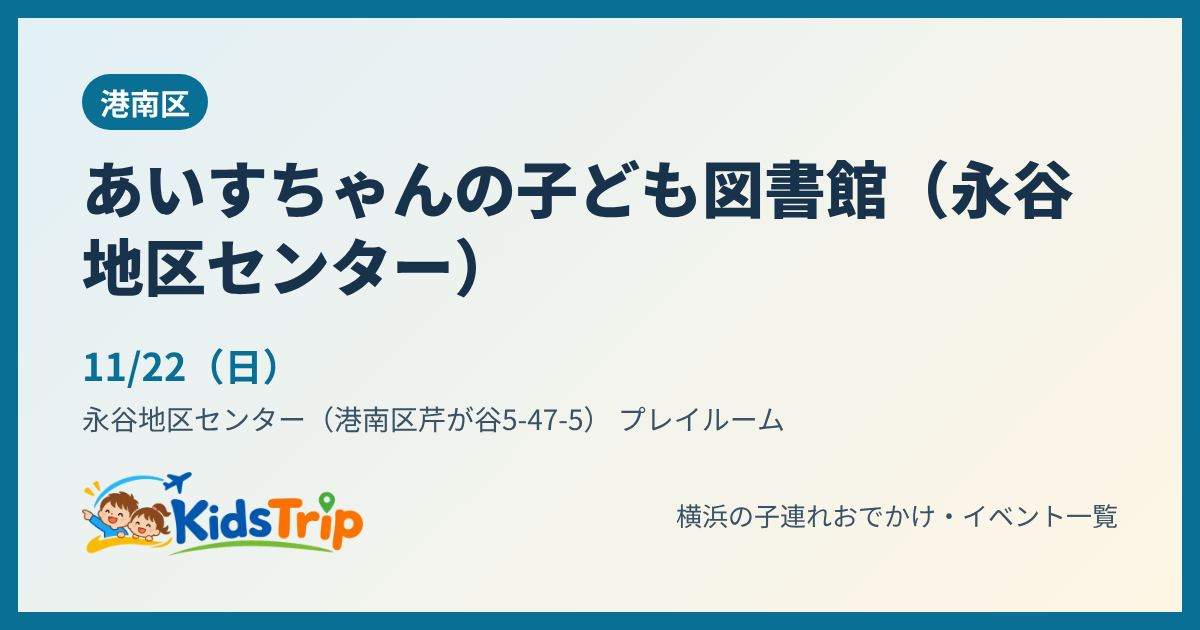
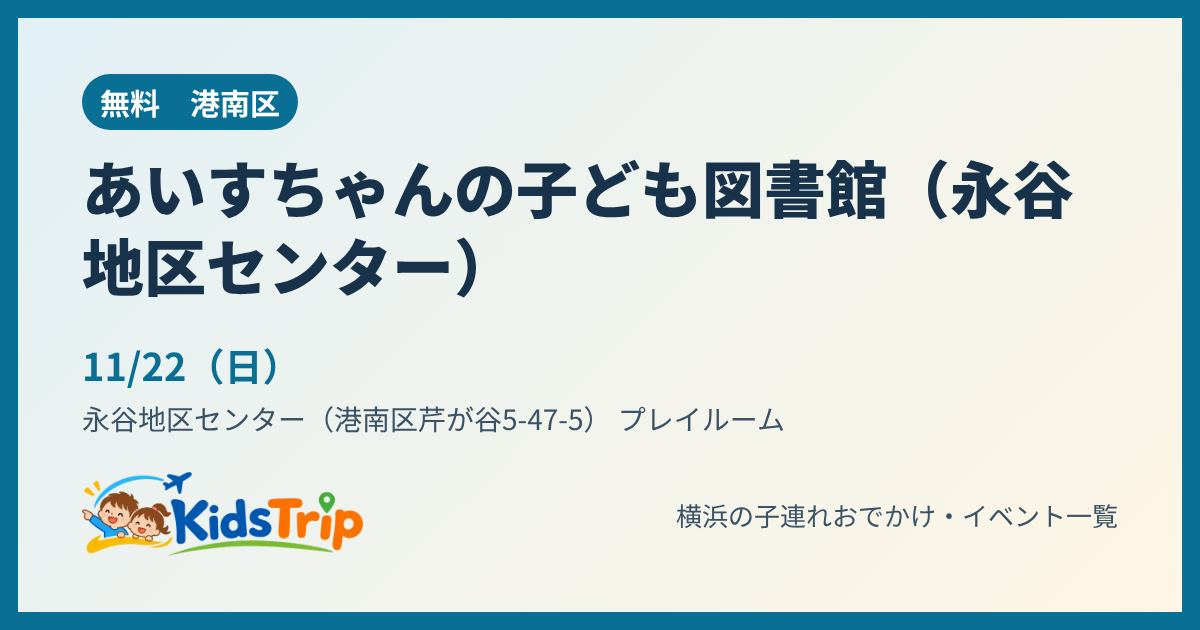
ブランチ南部市場のクリスマス会・はらっぱ祭り・ANAの飛行機・ワールドポーターズのリース作り・あいすちゃんの子ども図書館・港南台北ログハウスを、利用者が送った公式の画面で確かめて更新
Claude-Session: https://claude.ai/code/session_014AtJ2h26UP5ukGbsStrCij

Changed region(s): [[0.0617, 0.0905, 0.2467, 0.2111]]

diff --git a/event/1s72oeq/index.html b/event/1s72oeq/index.html
@@ -4,12 +4,12 @@
 <meta charset="utf-8">
 <meta name="viewport" content="width=device-width, initial-scale=1">
 <title>親子でちょっと早いクリスマス（ブランチ横浜南部市場）（金沢区）｜横浜の子連れイベント｜KidsTrip</title>
-<meta name="description" content="11月19日(木)　ブランチ横浜南部市場（シーサイドライン 南部市場駅すぐ）。キラキラバスボム作りやフォトブースなどを楽しめる親子向けのクリスマスイベント。事前予約した人には、おかしのつかみどりか野菜の詰め合わせのプレゼントあり。平日（木曜">
+<meta name="description" content="11月19日(木)　ブランチ横浜南部市場 NANBU BASE（シーサイドライン 南部市場駅すぐ）。キラキラバスボム作りやフォトブースなどを楽しめる親子向けのクリスマスイベント。事前予約した人には、おかしのつかみどりか野菜の詰め合わせのプレ">
 <link rel="canonical" href="https://kidstrip.jp/event/1s72oeq/">
 <meta property="og:type" content="article">
 <meta property="og:site_name" content="KidsTrip">
 <meta property="og:title" content="親子でちょっと早いクリスマス（ブランチ横浜南部市場）（金沢区）｜横浜の子連れイベント｜KidsTrip">
-<meta property="og:description" content="11月19日(木)　ブランチ横浜南部市場（シーサイドライン 南部市場駅すぐ）。キラキラバスボム作りやフォトブースなどを楽しめる親子向けのクリスマスイベント。事前予約した人には、おかしのつかみどりか野菜の詰め合わせのプレゼントあり。平日（木曜">
+<meta property="og:description" content="11月19日(木)　ブランチ横浜南部市場 NANBU BASE（シーサイドライン 南部市場駅すぐ）。キラキラバスボム作りやフォトブースなどを楽しめる親子向けのクリスマスイベント。事前予約した人には、おかしのつかみどりか野菜の詰め合わせのプレ">
 <meta property="og:url" content="https://kidstrip.jp/event/1s72oeq/">
 <meta property="og:image" content="https://kidstrip.jp/og/1s72oeq.jpg">
 <meta property="og:image:width" content="1200">
@@ -19,7 +19,7 @@
 <link rel="icon" href="../../img/favicon.png">
 <link rel="apple-touch-icon" href="../../img/apple-touch-icon.png">
 <script type="application/ld+json">{"@context": "https://schema.org", "@type": "BreadcrumbList", "itemListElement": [{"@type": "ListItem", "position": 1, "name": "トップ", "item": "https://kidstrip.jp/"}, {"@type": "ListItem", "position": 2, "name": "イベント", "item": "https://kidstrip.jp/"}, {"@type": "ListItem", "position": 3, "name": "親子でちょっと早いクリスマス（ブランチ横浜南部市場）"}]}</script>
-<script type="application/ld+json">{"@context": "https://schema.org", "@type": "Event", "name": "親子でちょっと早いクリスマス（ブランチ横浜南部市場）", "startDate": "2026-11-19T10:30:00+09:00", "endDate": "2026-11-19", "eventStatus": "https://schema.org/EventScheduled", "eventAttendanceMode": "https://schema.org/OfflineEventAttendanceMode", "location": {"@type": "Place", "name": "ブランチ横浜南部市場（シーサイドライン 南部市場駅すぐ）", "address": {"@type": "PostalAddress", "addressLocality": "横浜市金沢区", "addressRegion": "神奈川県", "addressCountry": "JP"}}, "description": "キラキラバスボム作りやフォトブースなどを楽しめる親子向けのクリスマスイベント。事前予約した人には、おかしのつかみどりか野菜の詰め合わせのプレゼントあり。平日（木曜）の開催。", "image": ["https://kidstrip.jp/og/1s72oeq.jpg"], "url": "https://kidstrip.jp/event/1s72oeq/", "isAccessibleForFree": true, "inLanguage": "ja"}</script>
+<script type="application/ld+json">{"@context": "https://schema.org", "@type": "Event", "name": "親子でちょっと早いクリスマス（ブランチ横浜南部市場）", "startDate": "2026-11-19T10:30:00+09:00", "endDate": "2026-11-19", "eventStatus": "https://schema.org/EventScheduled", "eventAttendanceMode": "https://schema.org/OfflineEventAttendanceMode", "location": {"@type": "Place", "name": "ブランチ横浜南部市場 NANBU BASE（シーサイドライン 南部市場駅すぐ）", "address": {"@type": "PostalAddress", "addressLocality": "横浜市金沢区", "addressRegion": "神奈川県", "addressCountry": "JP"}}, "description": "キラキラバスボム作りやフォトブースなどを楽しめる親子向けのクリスマスイベント。事前予約した人には、おかしのつかみどりか野菜の詰め合わせのプレゼントあり。平日（木曜）の開催。", "image": ["https://kidstrip.jp/og/1s72oeq.jpg"], "url": "https://kidstrip.jp/event/1s72oeq/", "isAccessibleForFree": true, "inLanguage": "ja"}</script>
 <style>
 :root{--paper:#f8fafc;--card:#fff;--ink:#18222e;--muted:#5b6875;--line:#dde3e9;--accent:#0a6f95;--accent-soft:#e2f0f6;--ok:#2e7d4f;--bad:#b3372b}
 *{box-sizing:border-box}body{margin:0;background:var(--paper);color:var(--ink);font-family:"Zen Kaku Gothic New","Hiragino Kaku Gothic ProN","Yu Gothic","Meiryo",sans-serif;line-height:1.7}
@@ -50,19 +50,19 @@ footer{margin:28px 0 8px;font-size:12px;color:var(--muted)}
 <table class="info">
 <tr><th>日にち</th><td>11月19日(木)</td></tr>
 <tr><th>時間</th><td>10:30〜12:30</td></tr>
-<tr><th>場所</th><td>金沢区・ブランチ横浜南部市場（シーサイドライン 南部市場駅すぐ）</td></tr>
-<tr><th>料金</th><td>アプリ「マイコミュ」で事前予約すると無料（予約なしは1,000円）</td></tr>
+<tr><th>場所</th><td>金沢区・ブランチ横浜南部市場 NANBU BASE（シーサイドライン 南部市場駅すぐ）</td></tr>
+<tr><th>料金</th><td>アプリ「マイコミュ」で事前予約すると無料（ふだんの参加費は1,000円）</td></tr>
 <tr><th>対象</th><td>親子向け</td></tr>
 <tr><th>予約</th><td>アプリで事前予約・先着100組</td></tr>
 <tr><th>雨の日</th><td>雨でもOK（屋内（NANBU BASE））</td></tr>
 </table>
 <p class="sum">キラキラバスボム作りやフォトブースなどを楽しめる親子向けのクリスマスイベント。事前予約した人には、おかしのつかみどりか野菜の詰め合わせのプレゼントあり。平日（木曜）の開催。</p>
-<p class="tip">💡 先着100組なので早めに予約を。駐車場は混みやすいのでシーサイドラインが便利</p>
-<p class="small">情報の時点：2026年11月11日　出典：ブランチ横浜南部市場 公式</p>
+<p class="tip">💡 先着100組なので早めに予約を。主催は横浜市シェアタウン（AsMama）とブランチ横浜南部市場。12/17(木)には同じ場所で「ファミリーランチ会」もある（くわしくは公式で）。駐車場は混みやすいのでシーサイドラインが便利</p>
+<p class="small">情報の時点：2026年11月18日　出典：ブランチ横浜南部市場 公式のチラシ（利用者が送った画面・2026年11月）</p>
 <div class="btns"><a class="btn main" data-act="official" href="https://www.branch-sc.com/yokohama_nanbu/shop/pop-eventnews.jsp?id=8200" target="_blank" rel="noopener">公式ページで確認</a>
 <a class="btn" href="/?e=1s72oeq">一覧で見る（行き方・近くのごはん）</a>
 <button type="button" class="btn" data-share="1">🔗 リンクを送る・コピー</button>
-<a class="btn line" href="https://line.me/R/share?text=%E3%80%90%E8%A6%AA%E5%AD%90%E3%81%A7%E3%81%A1%E3%82%87%E3%81%A3%E3%81%A8%E6%97%A9%E3%81%84%E3%82%AF%E3%83%AA%E3%82%B9%E3%83%9E%E3%82%B9%EF%BC%88%E3%83%96%E3%83%A9%E3%83%B3%E3%83%81%E6%A8%AA%E6%B5%9C%E5%8D%97%E9%83%A8%E5%B8%82%E5%A0%B4%EF%BC%89%E3%80%91%0A11%E6%9C%8819%E6%97%A5%28%E6%9C%A8%29%E3%80%8010%3A30%E3%80%9C12%3A30%0A%E5%A0%B4%E6%89%80%EF%BC%9A%E9%87%91%E6%B2%A2%E5%8C%BA%E3%83%BB%E3%83%96%E3%83%A9%E3%83%B3%E3%83%81%E6%A8%AA%E6%B5%9C%E5%8D%97%E9%83%A8%E5%B8%82%E5%A0%B4%EF%BC%88%E3%82%B7%E3%83%BC%E3%82%B5%E3%82%A4%E3%83%89%E3%83%A9%E3%82%A4%E3%83%B3%20%E5%8D%97%E9%83%A8%E5%B8%82%E5%A0%B4%E9%A7%85%E3%81%99%E3%81%90%EF%BC%89%0Ahttps%3A//kidstrip.jp/event/1s72oeq/" target="_blank" rel="noopener">LINEで送る</a></div>
+<a class="btn line" href="https://line.me/R/share?text=%E3%80%90%E8%A6%AA%E5%AD%90%E3%81%A7%E3%81%A1%E3%82%87%E3%81%A3%E3%81%A8%E6%97%A9%E3%81%84%E3%82%AF%E3%83%AA%E3%82%B9%E3%83%9E%E3%82%B9%EF%BC%88%E3%83%96%E3%83%A9%E3%83%B3%E3%83%81%E6%A8%AA%E6%B5%9C%E5%8D%97%E9%83%A8%E5%B8%82%E5%A0%B4%EF%BC%89%E3%80%91%0A11%E6%9C%8819%E6%97%A5%28%E6%9C%A8%29%E3%80%8010%3A30%E3%80%9C12%3A30%0A%E5%A0%B4%E6%89%80%EF%BC%9A%E9%87%91%E6%B2%A2%E5%8C%BA%E3%83%BB%E3%83%96%E3%83%A9%E3%83%B3%E3%83%81%E6%A8%AA%E6%B5%9C%E5%8D%97%E9%83%A8%E5%B8%82%E5%A0%B4%20NANBU%20BASE%EF%BC%88%E3%82%B7%E3%83%BC%E3%82%B5%E3%82%A4%E3%83%89%E3%83%A9%E3%82%A4%E3%83%B3%20%E5%8D%97%E9%83%A8%E5%B8%82%E5%A0%B4%E9%A7%85%E3%81%99%E3%81%90%EF%BC%89%0Ahttps%3A//kidstrip.jp/event/1s72oeq/" target="_blank" rel="noopener">LINEで送る</a></div>
 </article>
 <h2>歩いて10分以内のおむつ替え・授乳室・お湯</h2><table class="bm"><thead><tr><th>場所</th><th>おむつ替え</th><th>授乳室</th><th>お湯</th><th>レンジ</th></tr></thead><tbody><tr><th scope="row"><a href="/spot/1nerc27/">ブランチ横浜南部市場</a></th><td class="y">○</td><td class="y">○</td><td class="y">○</td><td class="u">？</td></tr></tbody></table><p class="legend">○ あり　× なし　？ 調べた範囲で確認できず</p>
 

diff --git a/event/1agi05y/index.html b/event/1agi05y/index.html
@@ -4,12 +4,12 @@
 <meta charset="utf-8">
 <meta name="viewport" content="width=device-width, initial-scale=1">
 <title>あいすちゃんの子ども図書館（永谷地区センター）（港南区）｜横浜の子連れイベント｜KidsTrip</title>
-<meta name="description" content="11月22日(日)　永谷地区センター（港南区芹が谷5-47-5） プレイルーム。プレイルームで開かれる子ども向けの催し。内容・対象・料金は公式のイベントページで確認を。">
+<meta name="description" content="11月22日(日)　永谷地区センター（港南区芹が谷5-47-5） プレイルーム。プレイルームで季節の絵本50冊以上を自由に読める会。途中で読み聞かせと、絵本の選び方・読み聞かせ方の講座もある。毎月第4日曜。">
 <link rel="canonical" href="https://kidstrip.jp/event/1agi05y/">
 <meta property="og:type" content="article">
 <meta property="og:site_name" content="KidsTrip">
 <meta property="og:title" content="あいすちゃんの子ども図書館（永谷地区センター）（港南区）｜横浜の子連れイベント｜KidsTrip">
-<meta property="og:description" content="11月22日(日)　永谷地区センター（港南区芹が谷5-47-5） プレイルーム。プレイルームで開かれる子ども向けの催し。内容・対象・料金は公式のイベントページで確認を。">
+<meta property="og:description" content="11月22日(日)　永谷地区センター（港南区芹が谷5-47-5） プレイルーム。プレイルームで季節の絵本50冊以上を自由に読める会。途中で読み聞かせと、絵本の選び方・読み聞かせ方の講座もある。毎月第4日曜。">
 <meta property="og:url" content="https://kidstrip.jp/event/1agi05y/">
 <meta property="og:image" content="https://kidstrip.jp/og/1agi05y.jpg">
 <meta property="og:image:width" content="1200">
@@ -19,7 +19,7 @@
 <link rel="icon" href="../../img/favicon.png">
 <link rel="apple-touch-icon" href="../../img/apple-touch-icon.png">
 <script type="application/ld+json">{"@context": "https://schema.org", "@type": "BreadcrumbList", "itemListElement": [{"@type": "ListItem", "position": 1, "name": "トップ", "item": "https://kidstrip.jp/"}, {"@type": "ListItem", "position": 2, "name": "イベント", "item": "https://kidstrip.jp/"}, {"@type": "ListItem", "position": 3, "name": "あいすちゃんの子ども図書館（永谷地区センター）"}]}</script>
-<script type="application/ld+json">{"@context": "https://schema.org", "@type": "Event", "name": "あいすちゃんの子ども図書館（永谷地区センター）", "startDate": "2026-11-22T10:00:00+09:00", "endDate": "2026-11-22", "eventStatus": "https://schema.org/EventScheduled", "eventAttendanceMode": "https://schema.org/OfflineEventAttendanceMode", "location": {"@type": "Place", "name": "永谷地区センター（港南区芹が谷5-47-5） プレイルーム", "address": {"@type": "PostalAddress", "addressLocality": "横浜市港南区", "addressRegion": "神奈川県", "addressCountry": "JP"}}, "description": "プレイルームで開かれる子ども向けの催し。内容・対象・料金は公式のイベントページで確認を。", "image": ["https://kidstrip.jp/og/1agi05y.jpg"], "url": "https://kidstrip.jp/event/1agi05y/", "isAccessibleForFree": false, "inLanguage": "ja"}</script>
+<script type="application/ld+json">{"@context": "https://schema.org", "@type": "Event", "name": "あいすちゃんの子ども図書館（永谷地区センター）", "startDate": "2026-11-22T11:00:00+09:00", "endDate": "2026-11-22", "eventStatus": "https://schema.org/EventScheduled", "eventAttendanceMode": "https://schema.org/OfflineEventAttendanceMode", "location": {"@type": "Place", "name": "永谷地区センター（港南区芹が谷5-47-5） プレイルーム", "address": {"@type": "PostalAddress", "addressLocality": "横浜市港南区", "addressRegion": "神奈川県", "addressCountry": "JP"}}, "description": "プレイルームで季節の絵本50冊以上を自由に読める会。途中で読み聞かせと、絵本の選び方・読み聞かせ方の講座もある。毎月第4日曜。", "image": ["https://kidstrip.jp/og/1agi05y.jpg"], "url": "https://kidstrip.jp/event/1agi05y/", "isAccessibleForFree": true, "inLanguage": "ja"}</script>
 <style>
 :root{--paper:#f8fafc;--card:#fff;--ink:#18222e;--muted:#5b6875;--line:#dde3e9;--accent:#0a6f95;--accent-soft:#e2f0f6;--ok:#2e7d4f;--bad:#b3372b}
 *{box-sizing:border-box}body{margin:0;background:var(--paper);color:var(--ink);font-family:"Zen Kaku Gothic New","Hiragino Kaku Gothic ProN","Yu Gothic","Meiryo",sans-serif;line-height:1.7}
@@ -46,23 +46,23 @@ footer{margin:28px 0 8px;font-size:12px;color:var(--muted)}
 <p class="crumb"><a href="/">トップ</a> ＞ <a href="/">イベント</a> ＞ あいすちゃんの子ども図書館（永谷地区センター）</p>
 <article class="card">
 <h1>あいすちゃんの子ども図書館（永谷地区センター）</h1>
-<ul class="chips"><li>料金要確認</li><li>公式ページを開けず未確認（プレイルームでの子ども向けの催し）</li><li>屋内</li><li>雨でもOK</li></ul>
+<ul class="chips"><li>無料</li><li>未就学児と保護者</li><li>屋内</li><li>雨でもOK</li></ul>
 <table class="info">
 <tr><th>日にち</th><td>11月22日(日)</td></tr>
-<tr><th>時間</th><td>プレイルームで10:00〜12:30のあいだ（くわしい時間は公式ページで確認）</td></tr>
+<tr><th>時間</th><td>11:00〜12:30（出入り自由）。11:30〜12:00は読み聞かせと絵本講座</td></tr>
 <tr><th>場所</th><td>港南区・永谷地区センター（港南区芹が谷5-47-5） プレイルーム</td></tr>
-<tr><th>料金</th><td>公式ページを開けず未確認</td></tr>
-<tr><th>対象</th><td>公式ページを開けず未確認（プレイルームでの子ども向けの催し）</td></tr>
-<tr><th>予約</th><td>公式ページを開けず未確認</td></tr>
+<tr><th>料金</th><td>無料</td></tr>
+<tr><th>対象</th><td>未就学児と保護者</td></tr>
+<tr><th>予約</th><td>申込不要（当日そのままプレイルームへ）</td></tr>
 <tr><th>雨の日</th><td>雨でもOK（屋内なので雨でもOK）</td></tr>
 </table>
-<p class="sum">プレイルームで開かれる子ども向けの催し。内容・対象・料金は公式のイベントページで確認を。</p>
-<p class="tip">💡 この時間はプレイルームがふだんの遊び場としては使えない。問い合わせ 045-823-7789。</p>
-<p class="small">情報の時点：2026年11月16日　出典：永谷地区センター公式（トップのイベント一覧・プレイルームのお知らせ）</p>
+<p class="sum">プレイルームで季節の絵本50冊以上を自由に読める会。途中で読み聞かせと、絵本の選び方・読み聞かせ方の講座もある。毎月第4日曜。</p>
+<p class="tip">💡 出入り自由なので途中からでも。問い合わせ 045-823-7789。</p>
+<p class="small">情報の時点：2026年11月18日　出典：永谷地区センター公式のチラシ（利用者が送った画面・2026年11月）</p>
 <div class="btns"><a class="btn main" data-act="official" href="https://www.chikusen.ne.jp/nagaya/event/detail.php?id=3738" target="_blank" rel="noopener">公式ページで確認</a>
 <a class="btn" href="/?e=1agi05y">一覧で見る（行き方・近くのごはん）</a>
 <button type="button" class="btn" data-share="1">🔗 リンクを送る・コピー</button>
-<a class="btn line" href="https://line.me/R/share?text=%E3%80%90%E3%81%82%E3%81%84%E3%81%99%E3%81%A1%E3%82%83%E3%82%93%E3%81%AE%E5%AD%90%E3%81%A9%E3%82%82%E5%9B%B3%E6%9B%B8%E9%A4%A8%EF%BC%88%E6%B0%B8%E8%B0%B7%E5%9C%B0%E5%8C%BA%E3%82%BB%E3%83%B3%E3%82%BF%E3%83%BC%EF%BC%89%E3%80%91%0A11%E6%9C%8822%E6%97%A5%28%E6%97%A5%29%E3%80%80%E3%83%97%E3%83%AC%E3%82%A4%E3%83%AB%E3%83%BC%E3%83%A0%E3%81%A710%3A00%E3%80%9C12%3A30%E3%81%AE%E3%81%82%E3%81%84%E3%81%A0%EF%BC%88%E3%81%8F%E3%82%8F%E3%81%97%E3%81%84%E6%99%82%E9%96%93%E3%81%AF%E5%85%AC%E5%BC%8F%E3%83%9A%E3%83%BC%E3%82%B8%E3%81%A7%E7%A2%BA%E8%AA%8D%EF%BC%89%0A%E5%A0%B4%E6%89%80%EF%BC%9A%E6%B8%AF%E5%8D%97%E5%8C%BA%E3%83%BB%E6%B0%B8%E8%B0%B7%E5%9C%B0%E5%8C%BA%E3%82%BB%E3%83%B3%E3%82%BF%E3%83%BC%EF%BC%88%E6%B8%AF%E5%8D%97%E5%8C%BA%E8%8A%B9%E3%81%8C%E8%B0%B75-47-5%EF%BC%89%20%E3%83%97%E3%83%AC%E3%82%A4%E3%83%AB%E3%83%BC%E3%83%A0%0Ahttps%3A//kidstrip.jp/event/1agi05y/" target="_blank" rel="noopener">LINEで送る</a></div>
+<a class="btn line" href="https://line.me/R/share?text=%E3%80%90%E3%81%82%E3%81%84%E3%81%99%E3%81%A1%E3%82%83%E3%82%93%E3%81%AE%E5%AD%90%E3%81%A9%E3%82%82%E5%9B%B3%E6%9B%B8%E9%A4%A8%EF%BC%88%E6%B0%B8%E8%B0%B7%E5%9C%B0%E5%8C%BA%E3%82%BB%E3%83%B3%E3%82%BF%E3%83%BC%EF%BC%89%E3%80%91%0A11%E6%9C%8822%E6%97%A5%28%E6%97%A5%29%E3%80%8011%3A00%E3%80%9C12%3A30%EF%BC%88%E5%87%BA%E5%85%A5%E3%82%8A%E8%87%AA%E7%94%B1%EF%BC%89%E3%80%8211%3A30%E3%80%9C12%3A00%E3%81%AF%E8%AA%AD%E3%81%BF%E8%81%9E%E3%81%8B%E3%81%9B%E3%81%A8%E7%B5%B5%E6%9C%AC%E8%AC%9B%E5%BA%A7%0A%E5%A0%B4%E6%89%80%EF%BC%9A%E6%B8%AF%E5%8D%97%E5%8C%BA%E3%83%BB%E6%B0%B8%E8%B0%B7%E5%9C%B0%E5%8C%BA%E3%82%BB%E3%83%B3%E3%82%BF%E3%83%BC%EF%BC%88%E6%B8%AF%E5%8D%97%E5%8C%BA%E8%8A%B9%E3%81%8C%E8%B0%B75-47-5%EF%BC%89%20%E3%83%97%E3%83%AC%E3%82%A4%E3%83%AB%E3%83%BC%E3%83%A0%0Ahttps%3A//kidstrip.jp/event/1agi05y/" target="_blank" rel="noopener">LINEで送る</a></div>
 </article>
 
 

diff --git a/event/lf4ca3/index.html b/event/lf4ca3/index.html
@@ -4,12 +4,12 @@
 <meta charset="utf-8">
 <meta name="viewport" content="width=device-width, initial-scale=1">
 <title>はらっぱ祭り（本牧原地域ケアプラザ）（中区）｜横浜の子連れイベント｜KidsTrip</title>
-<meta name="description" content="11月21日(土)　本牧原地域ケアプラザ。地域ケアプラザのお祭り。ちびっこ広場・射的・フィッシング・ガチャガチャの遊びコーナー、警察署ブース・フェイスペイント・電動車いすの体験、フランクフルトやおいもっくんの模擬店、キッチンカー、フリーマー">
+<meta name="description" content="11月21日(土)　本牧原地域ケアプラザ（中区本牧原6-1）。地域ケアプラザのお祭り。ちびっこ広場・射的・フィッシング・ガチャガチャの遊びコーナー、警察署ブース・フェイスペイント・電動車いすの体験、フランクフルトやおいもっくんの模擬店、キッ">
 <link rel="canonical" href="https://kidstrip.jp/event/lf4ca3/">
 <meta property="og:type" content="article">
 <meta property="og:site_name" content="KidsTrip">
 <meta property="og:title" content="はらっぱ祭り（本牧原地域ケアプラザ）（中区）｜横浜の子連れイベント｜KidsTrip">
-<meta property="og:description" content="11月21日(土)　本牧原地域ケアプラザ。地域ケアプラザのお祭り。ちびっこ広場・射的・フィッシング・ガチャガチャの遊びコーナー、警察署ブース・フェイスペイント・電動車いすの体験、フランクフルトやおいもっくんの模擬店、キッチンカー、フリーマー">
+<meta property="og:description" content="11月21日(土)　本牧原地域ケアプラザ（中区本牧原6-1）。地域ケアプラザのお祭り。ちびっこ広場・射的・フィッシング・ガチャガチャの遊びコーナー、警察署ブース・フェイスペイント・電動車いすの体験、フランクフルトやおいもっくんの模擬店、キッ">
 <meta property="og:url" content="https://kidstrip.jp/event/lf4ca3/">
 <meta property="og:image" content="https://kidstrip.jp/og/lf4ca3.jpg">
 <meta property="og:image:width" content="1200">
@@ -19,7 +19,7 @@
 <link rel="icon" href="../../img/favicon.png">
 <link rel="apple-touch-icon" href="../../img/apple-touch-icon.png">
 <script type="application/ld+json">{"@context": "https://schema.org", "@type": "BreadcrumbList", "itemListElement": [{"@type": "ListItem", "position": 1, "name": "トップ", "item": "https://kidstrip.jp/"}, {"@type": "ListItem", "position": 2, "name": "イベント", "item": "https://kidstrip.jp/"}, {"@type": "ListItem", "position": 3, "name": "はらっぱ祭り（本牧原地域ケアプラザ）"}]}</script>
-<script type="application/ld+json">{"@context": "https://schema.org", "@type": "Event", "name": "はらっぱ祭り（本牧原地域ケアプラザ）", "startDate": "2026-11-21T10:30:00+09:00", "endDate": "2026-11-21", "eventStatus": "https://schema.org/EventScheduled", "eventAttendanceMode": "https://schema.org/OfflineEventAttendanceMode", "location": {"@type": "Place", "name": "本牧原地域ケアプラザ", "address": {"@type": "PostalAddress", "addressLocality": "横浜市中区", "addressRegion": "神奈川県", "addressCountry": "JP"}}, "description": "地域ケアプラザのお祭り。ちびっこ広場・射的・フィッシング・ガチャガチャの遊びコーナー、警察署ブース・フェイスペイント・電動車いすの体験、フランクフルトやおいもっくんの模擬店、キッチンカー、フリーマーケットなど。11/14〜21は館内で保育園などの作品展も。", "image": ["https://kidstrip.jp/og/lf4ca3.jpg"], "url": "https://kidstrip.jp/event/lf4ca3/", "isAccessibleForFree": false, "inLanguage": "ja"}</script>
+<script type="application/ld+json">{"@context": "https://schema.org", "@type": "Event", "name": "はらっぱ祭り（本牧原地域ケアプラザ）", "startDate": "2026-11-21T10:30:00+09:00", "endDate": "2026-11-21", "eventStatus": "https://schema.org/EventScheduled", "eventAttendanceMode": "https://schema.org/OfflineEventAttendanceMode", "location": {"@type": "Place", "name": "本牧原地域ケアプラザ（中区本牧原6-1）", "address": {"@type": "PostalAddress", "addressLocality": "横浜市中区", "addressRegion": "神奈川県", "addressCountry": "JP"}}, "description": "地域ケアプラザのお祭り。ちびっこ広場・射的・フィッシング・ガチャガチャの遊びコーナー、警察署ブース・フェイスペイント・電動車いすの体験、フランクフルトやおいもっくんの模擬店、キッチンカー、フリーマーケットなど。11/14〜21は館内で保育園などの作品展も。", "image": ["https://kidstrip.jp/og/lf4ca3.jpg"], "url": "https://kidstrip.jp/event/lf4ca3/", "isAccessibleForFree": true, "inLanguage": "ja"}</script>
 <style>
 :root{--paper:#f8fafc;--card:#fff;--ink:#18222e;--muted:#5b6875;--line:#dde3e9;--accent:#0a6f95;--accent-soft:#e2f0f6;--ok:#2e7d4f;--bad:#b3372b}
 *{box-sizing:border-box}body{margin:0;background:var(--paper);color:var(--ink);font-family:"Zen Kaku Gothic New","Hiragino Kaku Gothic ProN","Yu Gothic","Meiryo",sans-serif;line-height:1.7}
@@ -46,23 +46,23 @@ footer{margin:28px 0 8px;font-size:12px;color:var(--muted)}
 <p class="crumb"><a href="/">トップ</a> ＞ <a href="/">イベント</a> ＞ はらっぱ祭り（本牧原地域ケアプラザ）</p>
 <article class="card">
 <h1>はらっぱ祭り（本牧原地域ケアプラザ）</h1>
-<ul class="chips"><li>料金要確認</li><li>乳幼児〜小学生と家族</li><li>屋外</li><li>天気に注意</li></ul>
+<ul class="chips"><li>無料</li><li>地域の方どなたでも（子ども向けの遊びコーナーあり）</li><li>屋外</li><li>天気に注意</li></ul>
 <table class="info">
 <tr><th>日にち</th><td>11月21日(土)</td></tr>
 <tr><th>時間</th><td>10:30〜14:30</td></tr>
-<tr><th>場所</th><td>中区・本牧原地域ケアプラザ</td></tr>
-<tr><th>料金</th><td>入場料はチラシに記載なし（模擬店・販売コーナーは有料。小銭の用意を）</td></tr>
-<tr><th>対象</th><td>乳幼児〜小学生と家族</td></tr>
+<tr><th>場所</th><td>中区・本牧原地域ケアプラザ（中区本牧原6-1）</td></tr>
+<tr><th>料金</th><td>参加費なし（模擬店・販売コーナーは有料。小銭の用意を）</td></tr>
+<tr><th>対象</th><td>地域の方どなたでも（子ども向けの遊びコーナーあり）</td></tr>
 <tr><th>予約</th><td>予約の記載なし</td></tr>
 <tr><th>雨の日</th><td>天気に注意（雨の日の扱いはチラシに記載なし）</td></tr>
 </table>
 <p class="sum">地域ケアプラザのお祭り。ちびっこ広場・射的・フィッシング・ガチャガチャの遊びコーナー、警察署ブース・フェイスペイント・電動車いすの体験、フランクフルトやおいもっくんの模擬店、キッチンカー、フリーマーケットなど。11/14〜21は館内で保育園などの作品展も。</p>
-<p class="tip">💡 小銭を用意して行くと安心。内容は変わることがある</p>
-<p class="small">情報の時点：2026年11月15日　出典：パマトコ（横浜市の子育て応援サイト）のお知らせメールに付いた主催者のチラシ（利用者の情報（2026年11月））</p>
+<p class="tip">💡 市営バス「和田山口」から歩いて約3分。小銭を用意して行くと安心。内容は変わることがある。問い合わせ 045-623-0971</p>
+<p class="small">情報の時点：2026年11月18日　出典：パマトコ（横浜市の子育て応援アプリ）のイベントページ（利用者が送った画面・2026年11月）・主催者のチラシ（利用者の情報（2026年11月））</p>
 <div class="btns"><a class="btn main" data-act="official" href="https://pamatoco.city.yokohama.lg.jp/" target="_blank" rel="noopener">公式ページで確認</a>
 <a class="btn" href="/?e=lf4ca3">一覧で見る（行き方・近くのごはん）</a>
 <button type="button" class="btn" data-share="1">🔗 リンクを送る・コピー</button>
-<a class="btn line" href="https://line.me/R/share?text=%E3%80%90%E3%81%AF%E3%82%89%E3%81%A3%E3%81%B1%E7%A5%AD%E3%82%8A%EF%BC%88%E6%9C%AC%E7%89%A7%E5%8E%9F%E5%9C%B0%E5%9F%9F%E3%82%B1%E3%82%A2%E3%83%97%E3%83%A9%E3%82%B6%EF%BC%89%E3%80%91%0A11%E6%9C%8821%E6%97%A5%28%E5%9C%9F%29%E3%80%8010%3A30%E3%80%9C14%3A30%0A%E5%A0%B4%E6%89%80%EF%BC%9A%E4%B8%AD%E5%8C%BA%E3%83%BB%E6%9C%AC%E7%89%A7%E5%8E%9F%E5%9C%B0%E5%9F%9F%E3%82%B1%E3%82%A2%E3%83%97%E3%83%A9%E3%82%B6%0Ahttps%3A//kidstrip.jp/event/lf4ca3/" target="_blank" rel="noopener">LINEで送る</a></div>
+<a class="btn line" href="https://line.me/R/share?text=%E3%80%90%E3%81%AF%E3%82%89%E3%81%A3%E3%81%B1%E7%A5%AD%E3%82%8A%EF%BC%88%E6%9C%AC%E7%89%A7%E5%8E%9F%E5%9C%B0%E5%9F%9F%E3%82%B1%E3%82%A2%E3%83%97%E3%83%A9%E3%82%B6%EF%BC%89%E3%80%91%0A11%E6%9C%8821%E6%97%A5%28%E5%9C%9F%29%E3%80%8010%3A30%E3%80%9C14%3A30%0A%E5%A0%B4%E6%89%80%EF%BC%9A%E4%B8%AD%E5%8C%BA%E3%83%BB%E6%9C%AC%E7%89%A7%E5%8E%9F%E5%9C%B0%E5%9F%9F%E3%82%B1%E3%82%A2%E3%83%97%E3%83%A9%E3%82%B6%EF%BC%88%E4%B8%AD%E5%8C%BA%E6%9C%AC%E7%89%A7%E5%8E%9F6-1%EF%BC%89%0Ahttps%3A//kidstrip.jp/event/lf4ca3/" target="_blank" rel="noopener">LINEで送る</a></div>
 </article>
 
 

diff --git a/event/1g0ktgl/index.html b/event/1g0ktgl/index.html
@@ -53,12 +53,12 @@ footer{margin:28px 0 8px;font-size:12px;color:var(--muted)}
 <tr><th>場所</th><td>中区・横浜ワールドポーターズ 6F イベントホールA</td></tr>
 <tr><th>料金</th><td>公式ページに記載なし</td></tr>
 <tr><th>対象</th><td>対象年齢は公式ページに記載なし</td></tr>
-<tr><th>予約</th><td>当日10:00から整理券（イオンモールアプリの登録が必要）</td></tr>
+<tr><th>予約</th><td>当日10:30から会場（6F イベントホールA）で全回の整理券を配布（各回20名。イオンモールアプリで横浜ワールドポーターズを「よく行く施設」に登録した画面を見せる。1台につき1枚）</td></tr>
 <tr><th>雨の日</th><td>雨でもOK（屋内なので雨でもOK）</td></tr>
 </table>
 <p class="sum">もみの木の枝と好きな花でクリスマスリースを作る。</p>
-<p class="tip">💡 アプリの登録は前もって済ませておく</p>
-<p class="small">情報の時点：2026年11月12日　出典：横浜ワールドポーターズ 公式</p>
+<p class="tip">💡 アプリの登録は前もって済ませておく。整理券は10:30から全回分まとめて配るので、遅い回を狙う場合も早めに</p>
+<p class="small">情報の時点：2026年11月18日　出典：横浜ワールドポーターズ 公式（利用者が送った画面・2026年11月）</p>
 <div class="btns"><a class="btn main" data-act="official" href="https://www.yim.co.jp/news/detail/5217" target="_blank" rel="noopener">公式ページで確認</a>
 <a class="btn" href="/?e=1g0ktgl">一覧で見る（行き方・近くのごはん）</a>
 <button type="button" class="btn" data-share="1">🔗 リンクを送る・コピー</button>

diff --git a/event/cji862/index.html b/event/cji862/index.html
@@ -51,14 +51,14 @@ footer{margin:28px 0 8px;font-size:12px;color:var(--muted)}
 <tr><th>日にち</th><td>11月19日(木)・11月26日(木)</td></tr>
 <tr><th>時間</th><td>11:00〜11:30</td></tr>
 <tr><th>場所</th><td>港南区・港南台北公園こどもログハウス（港南区港南台1-3）</td></tr>
-<tr><th>料金</th><td>公式ページに記載なし</td></tr>
+<tr><th>料金</th><td>公式ページに記載なし（ログハウス自体は無料の施設）</td></tr>
 <tr><th>対象</th><td>未就学児と保護者</td></tr>
 <tr><th>予約</th><td>申し込みなし（当日直接）</td></tr>
 <tr><th>雨の日</th><td>雨でもOK（屋内なので雨でもOK）</td></tr>
 </table>
 <p class="sum">親子あそび、紙芝居、パネルシアター。</p>
-<p class="tip">💡 毎週木曜に開かれている。問い合わせ 045-834-1169。</p>
-<p class="small">情報の時点：2026年11月17日　出典：港南台北公園こどもログハウス公式ブログ（11月の予定）</p>
+<p class="tip">💡 毎週木曜に開かれている。ログハウスは9:00〜17:00開館（遊べるのは9:30〜16:45）、第3火曜は休館。駐車場はない。問い合わせ 045-834-1169。</p>
+<p class="small">情報の時点：2026年11月18日　出典：港南台北公園こどもログハウス公式ブログ（利用者が送った画面・2026年11月）</p>
 <div class="btns"><a class="btn main" data-act="official" href="http://blog.k-log.jp/s/" target="_blank" rel="noopener">公式ページで確認</a>
 <a class="btn" href="/?e=cji862">一覧で見る（行き方・近くのごはん）</a>
 <button type="button" class="btn" data-share="1">🔗 リンクを送る・コピー</button>

diff --git a/event/axqg61/index.html b/event/axqg61/index.html
@@ -58,7 +58,7 @@ footer{margin:28px 0 8px;font-size:12px;color:var(--muted)}
 </table>
 <p class="sum">港南台北公園の中の、丸太を組み合わせたログハウス。すべり台、のぼり棒、地下迷路などで元気に遊べる無料の施設。</p>
 <p class="tip">💡 受付で利用者カードに名前と連絡先を書く（小中学生は保護者の連絡先・学年・学校名も）。館内は飲食できない（飲み物は1階ベランダで）。土日祝は混んで、入館を待つことがある。駐車場はない。問い合わせ 045-834-1169。</p>
-<p class="small">情報の時点：2026年11月17日　出典：港南台北公園こどもログハウス公式ブログ（ご利用案内）</p>
+<p class="small">情報の時点：2026年11月18日　出典：港南台北公園こどもログハウス公式ブログ（ご利用案内）（利用者が送った画面・2026年11月）</p>
 <div class="btns"><a class="btn main" data-act="official" href="http://blog.k-log.jp/s/" target="_blank" rel="noopener">公式ページで確認</a>
 <a class="btn" href="/?e=axqg61">一覧で見る（行き方・近くのごはん）</a>
 <button type="button" class="btn" data-share="1">🔗 リンクを送る・コピー</button>

diff --git a/event/pxzwdk/index.html b/event/pxzwdk/index.html
@@ -58,7 +58,7 @@ footer{margin:28px 0 8px;font-size:12px;color:var(--muted)}
 </table>
 <p class="sum">ANAの機内誌の紙で作った飛行機のミニフィギュアに色をぬる知育ワークショップ。</p>
 <p class="tip">💡 レシートはシァル桜木町ANNEXの分も合算できる（1枚で1人）。内容は当日変わることがある</p>
-<p class="small">情報の時点：2026年11月14日　出典：シァル桜木町 公式</p>
+<p class="small">情報の時点：2026年11月18日　出典：シァル桜木町 公式（利用者が送った画面・2026年11月）</p>
 <div class="btns"><a class="btn main" data-act="official" href="https://www.jryscc.co.jp/cial/sakuragicho/news/detail.php?topics_id=580" target="_blank" rel="noopener">公式ページで確認</a>
 <a class="btn" href="/?e=pxzwdk">一覧で見る（行き方・近くのごはん）</a>
 <button type="button" class="btn" data-share="1">🔗 リンクを送る・コピー</button>

diff --git a/index.html b/index.html
@@ -717,7 +717,7 @@ section[id], div[id="events"] { scroll-margin-top: 56px; }
   </footer>
 </div>
 
-<script src="js/data.js?v=6885dfdbb0" defer></script>
+<script src="js/data.js?v=9e843d8a19" defer></script>
 <script src="js/app.js?v=11c97b8331" defer></script>
 </body>
 </html>
